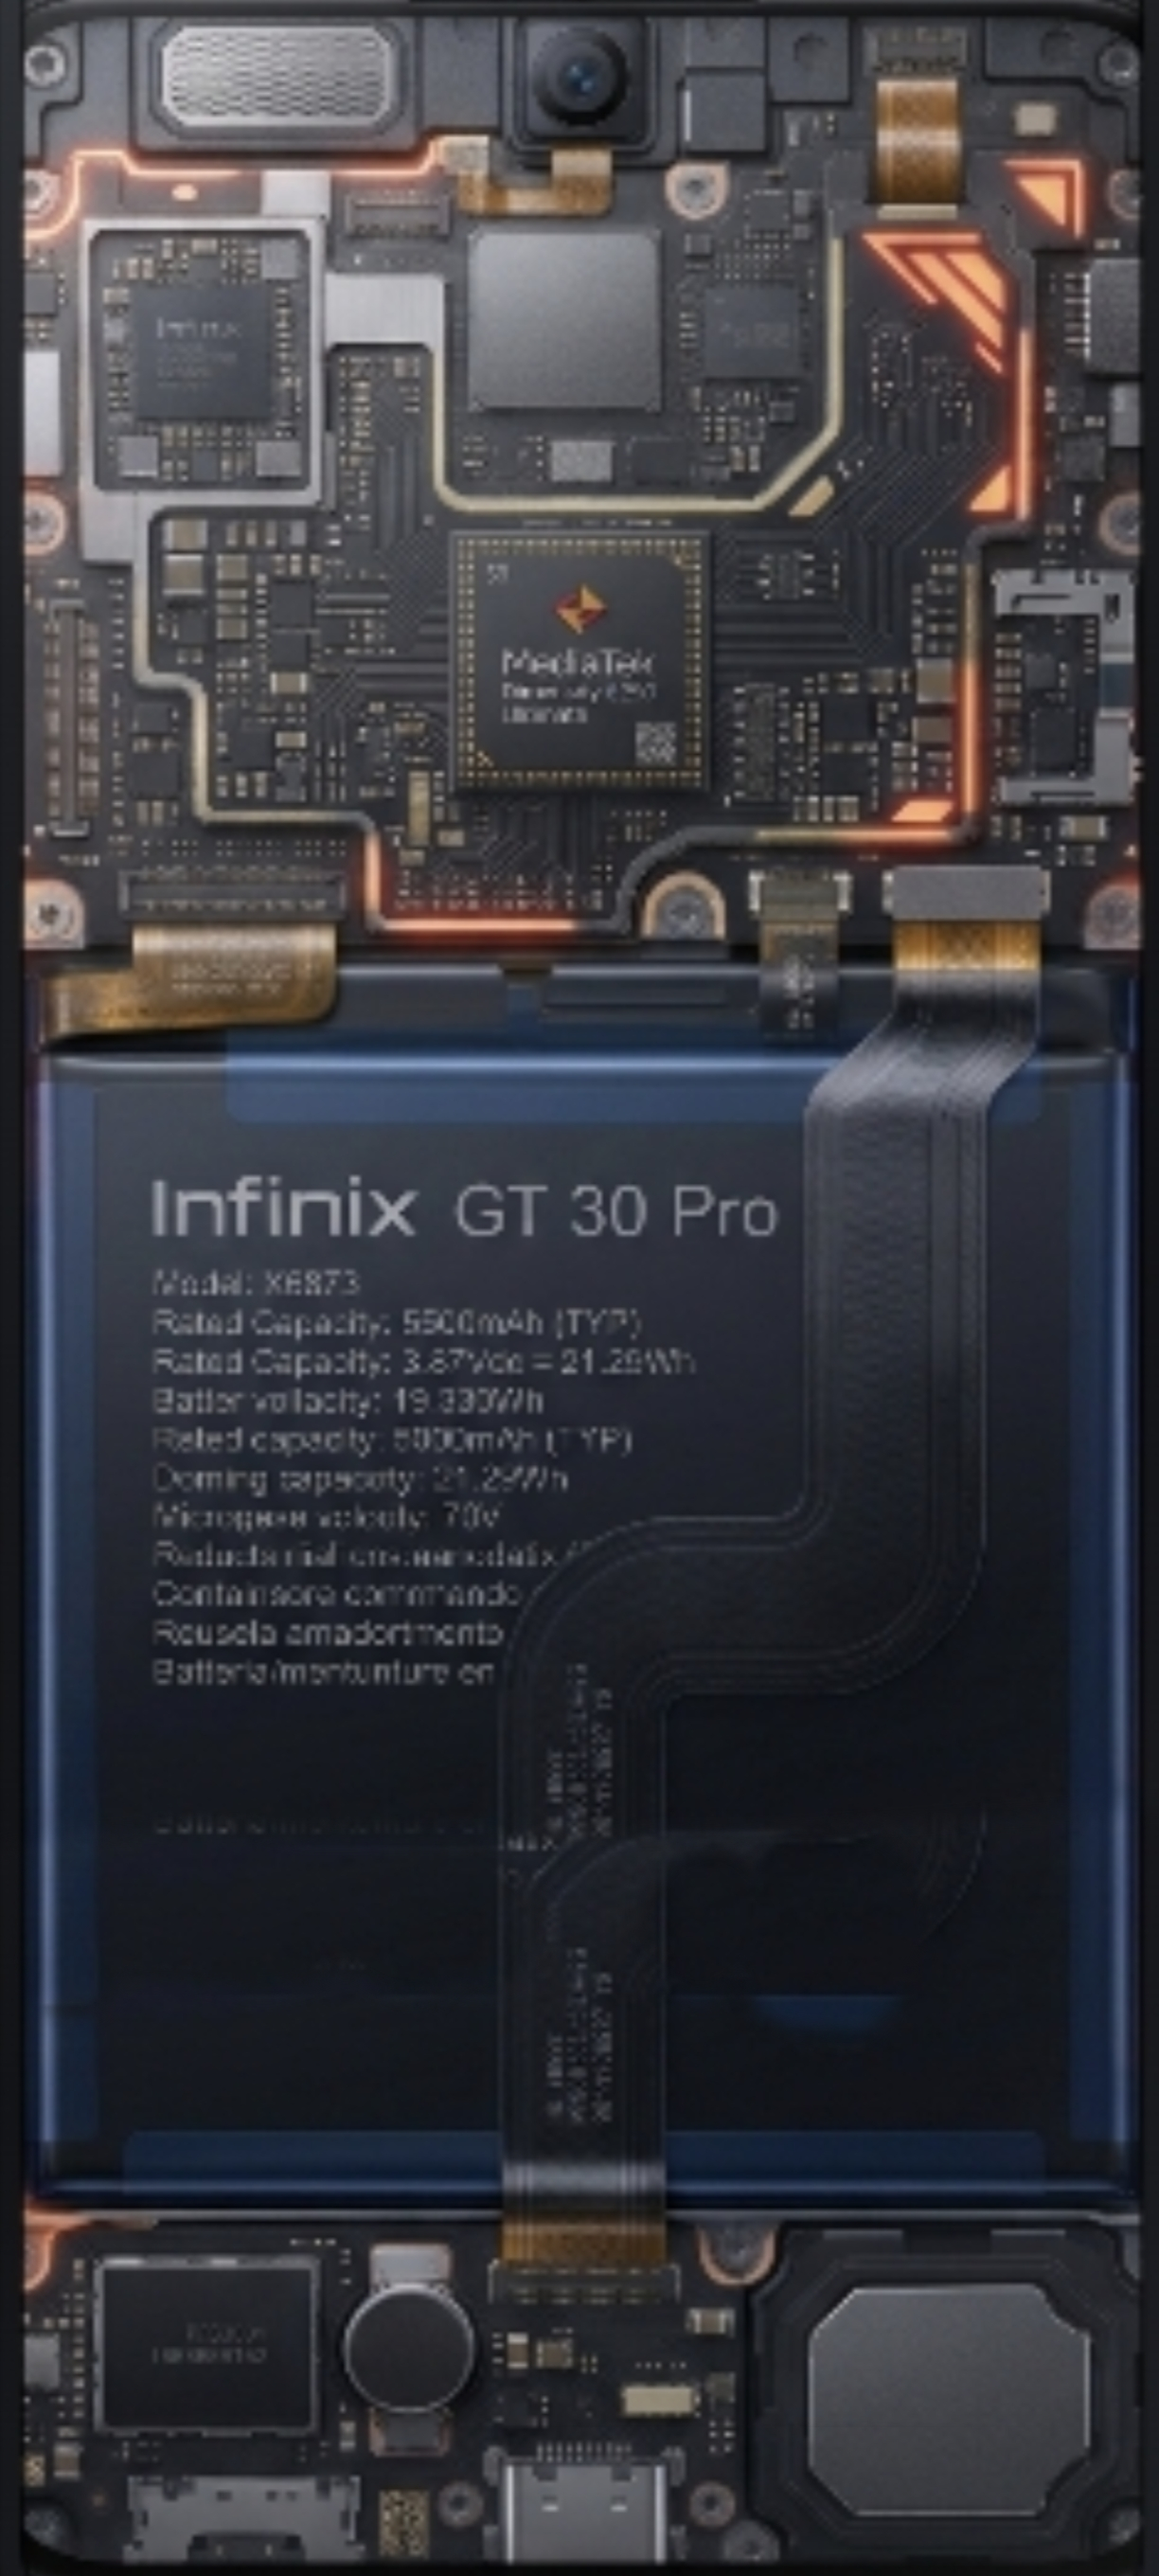
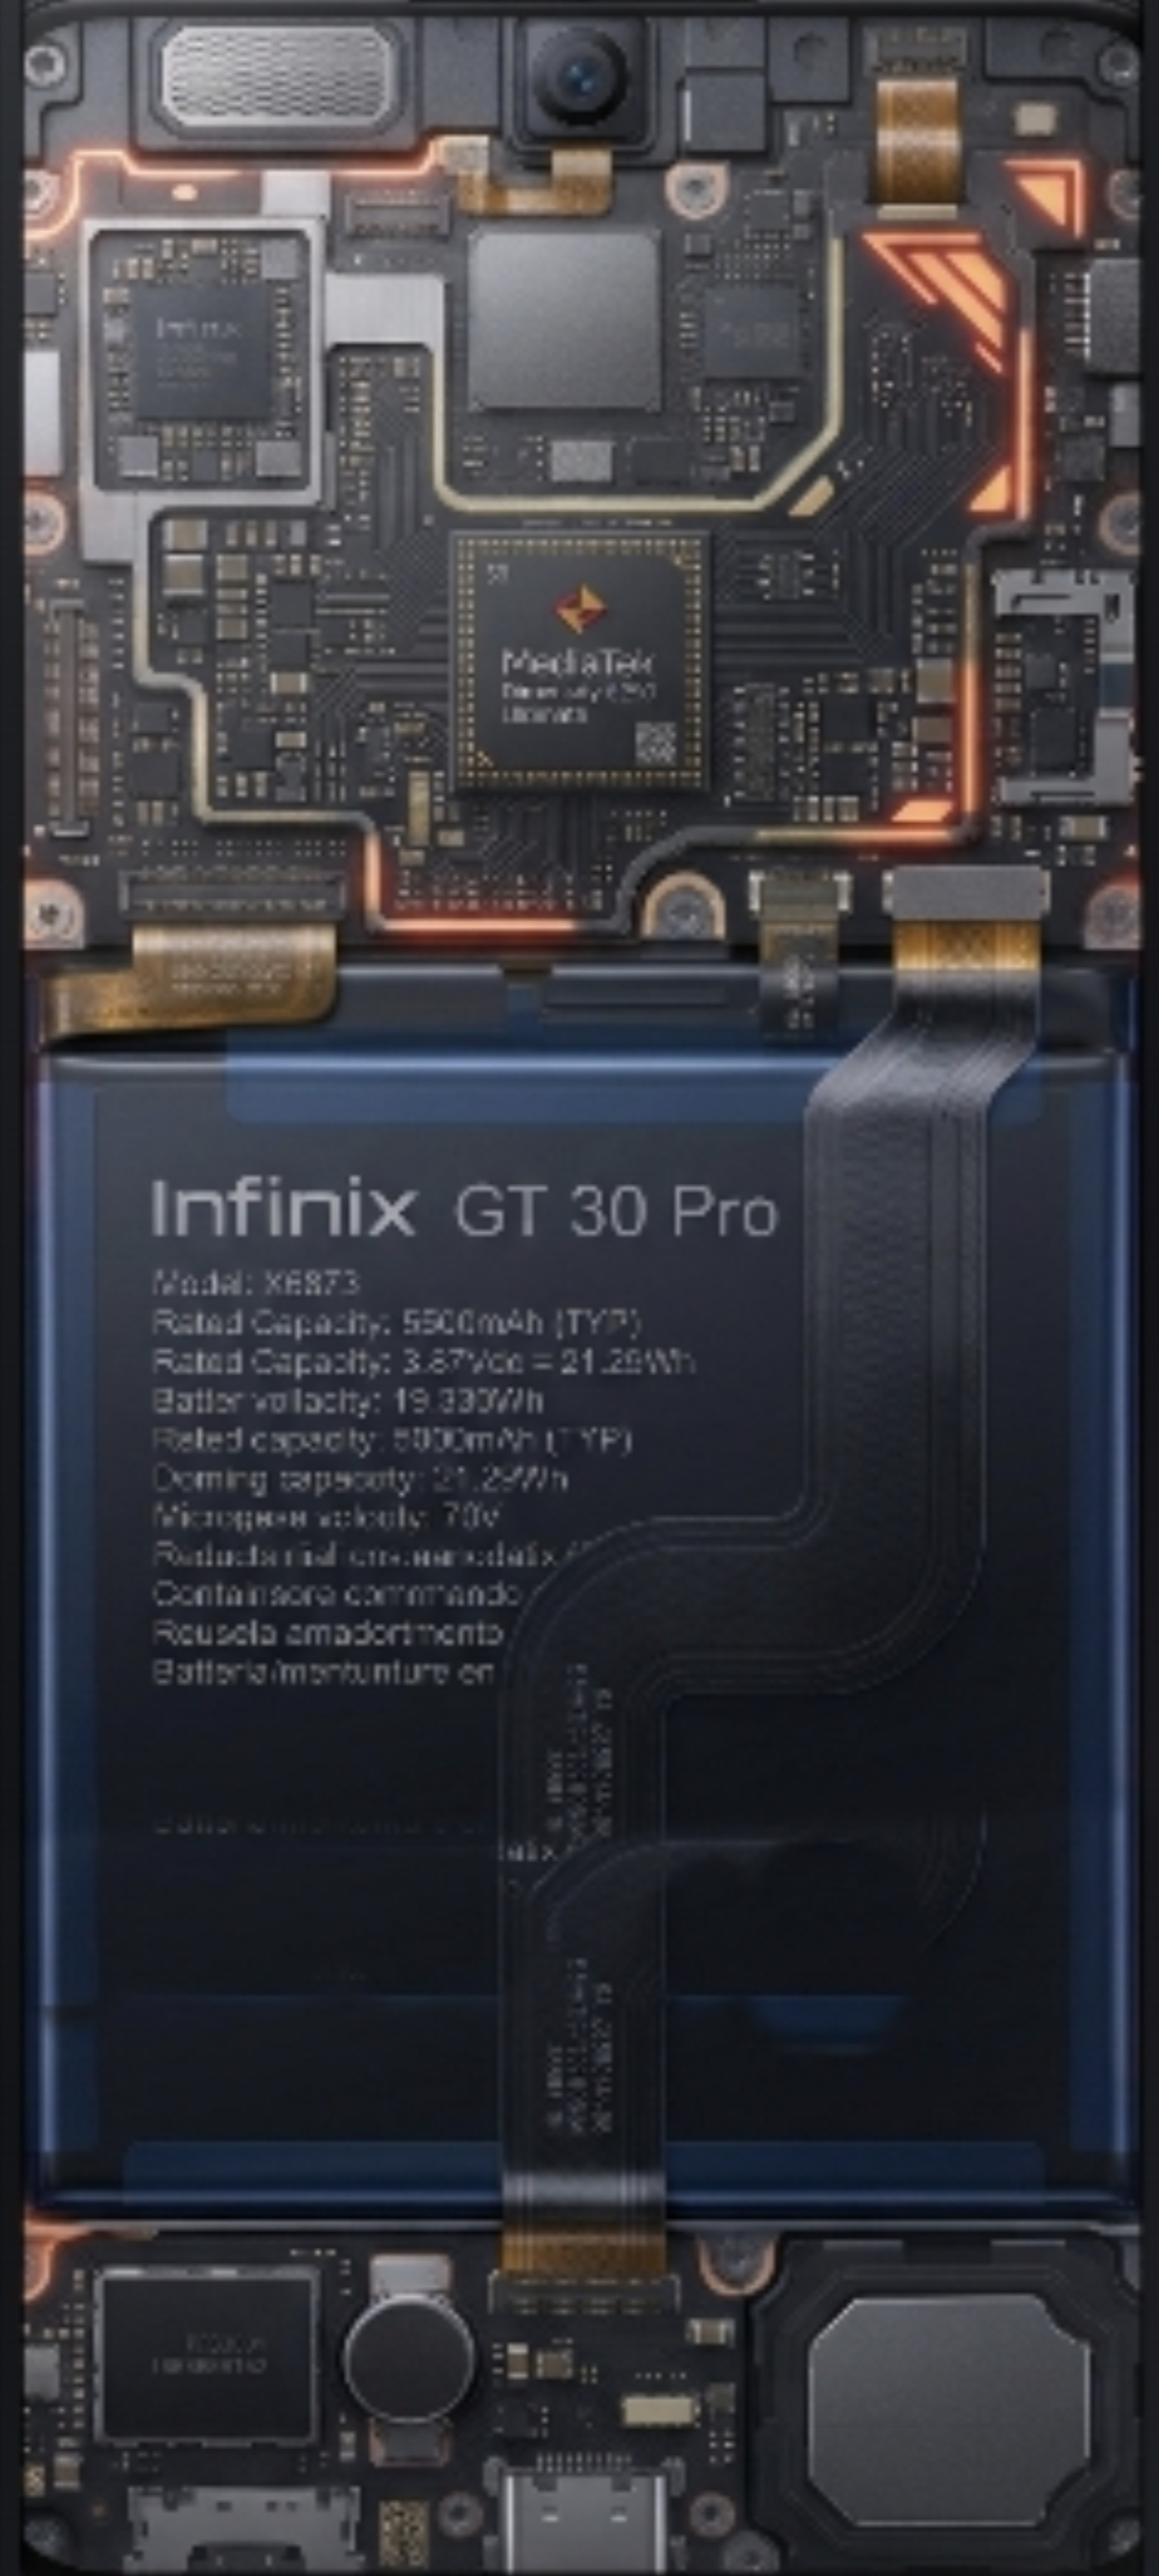
preview: ganti background dengan render GT 30 Pro versi terbaru (1224x2720)

diff --git a/preview/index.html b/preview/index.html
@@ -21,7 +21,7 @@
   .bg {
     position: fixed;
     inset: -6%;
-    background: url("assets/gt30pro-internals.jpg?v=4") center/cover no-repeat;
+    background: url("assets/gt30pro-internals.jpg?v=5") center/cover no-repeat;
     filter: blur(52px) saturate(1.15) brightness(0.34);
     transform: scale(1.08);
     z-index: 0;
@@ -172,7 +172,7 @@
   .wallpaper {
     position: absolute;
     inset: 0;
-    background: url("assets/gt30pro-internals.jpg?v=4") center/cover no-repeat;
+    background: url("assets/gt30pro-internals.jpg?v=5") center/cover no-repeat;
     transition: transform .12s ease-out, filter .12s ease-out;
     will-change: transform, filter;
   }
